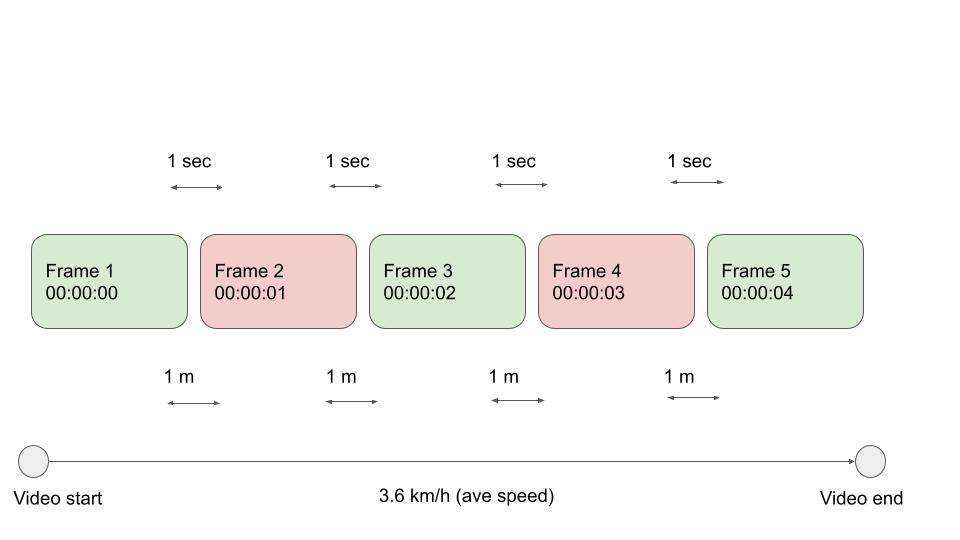
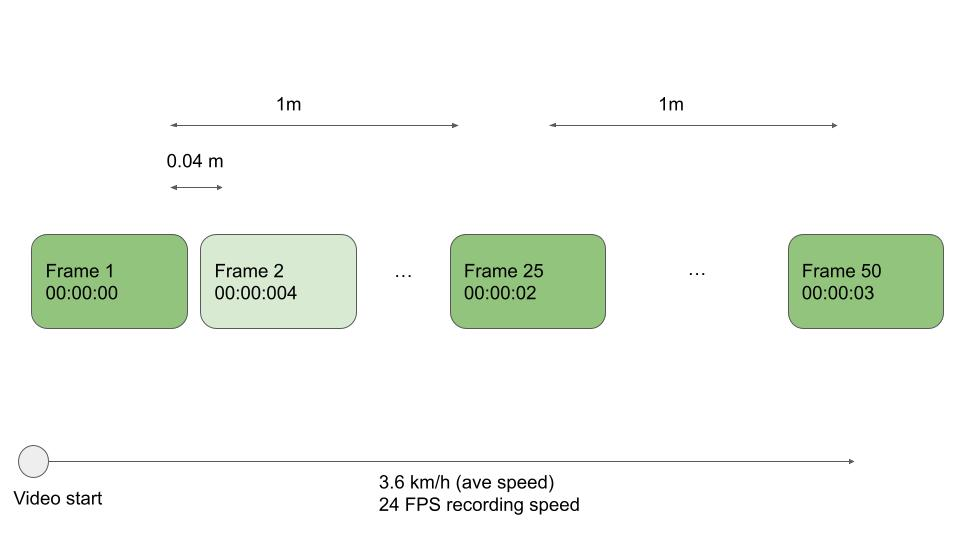
fixing conten

diff --git a/_posts/2022-02-11-choosing-right-frame-extraction-rate-ffmpeg.md b/_posts/2022-02-11-choosing-right-frame-extraction-rate-ffmpeg.md
@@ -1,7 +1,7 @@
 ---
 date: 2022-02-11
-title: "Setting the right frame rate for video extraction using speed as a variable"
-description: "How we optimised the process of turning a video into frames to create virtual tours in Explorer"
+title: "Setting the right frame rate for video extraction using ffmpeg"
+description: "How you optimised the process of turning a video into frames to create virtual tours in Explorer using speed as a variable."
 categories: developers
 tags: [FFMpeg, video, haversine]
 author_staff_member: dgreenwood
@@ -11,25 +11,25 @@ layout: post
 published: true
 ---
 
-**How we optimised the process of turning a video into frames for Explorer**
+**How you optimised the process of turning a video into frames to create virtual tours in Explorer using speed as a variable.**
 
 [Last week I talked about the importance of considering framerate for timewarp videos when extracting frames from it](/blog/2022/turn-360-timewarp-video-into-timelapse-images).
 
-With the Trek Pack v1 we shot in timelapse mode, [where the interval setting was determined by the transport used during shooting](/blog/2019/diy-google-street-view-part-3-preparing-to-shoot). This was a compromise as the Fusion's video mode was very battery intensive.
+With the Trek Pack v1 you shot in timelapse mode, [where the interval setting was determined by the speed of transport used during shooting](/blog/2019/diy-google-street-view-part-3-preparing-to-shoot). This was a compromise as the Fusion's video mode was very battery intensive.
 
-The MAX used on our v2 pack improved upon battery performance in video mode, we stated shooting in video mode only. The MAX also supports a frame rate of 0.5 FPS (1 photo every 2 seconds), which is also problematic.
+The MAX used on our v2 pack improved upon battery performance in video mode and you stated shooting in video mode only. The MAX also only supports a frame rate of 0.5 FPS (1 photo every 2 seconds), which is not paticularly fast for moderate-speed travel (e.g. biking).
 
-Videos can be recorded at a much higher frame rate. In video mode you can record up to 120 FPS @ 3k and 30 FPS @ 5.2k. Ultimately, this means there is more footage for us to work with (and discard as needed), not afforded when using timelapse mode.
+One of the biggest benefits of videos is that they can be recorded at a much higher frame rate. In video mode you can record up to 120 FPS @ 3k and 30 FPS @ 5.2k on the MAX. Ultimately, this means there is more footage for us to work with (and discard as needed), not afforded when using timelapse mode.
 
-Though extra frames come at a cost, and we had to apply some trade-offs when building Explorer.
+Though extra frames come at a cost, and you had to apply some trade-offs when building Explorer.
 
 ## Why not extract all frames of the video?
 
-In a perfect world, we would extract all video frames. For example, if a video was shot at 30 FPS, we would extract all 30 frames.
+In a perfect world, you would extract all video frames. For example, if a video was shot at 30 FPS, you would extract all 30 frames.
 
 For a video of 10 minutes, that is 18000 frames (`(30x60)x10`).
 
-Assuming each frame is about 10Mb (about right for a 360 photo), that is 180Gb of images. This number is inflated, but we lose the advantage of the [video codecs compression](/blog/2020/fps-bitrate-compression-360-virtual-tours).
+Assuming each frame is about 10Mb (about right for a 360 photo), that is 180Gb of images. This number is inflated, but you lose the advantage of the [compression provided by video codecs](/blog/2020/fps-bitrate-compression-360-virtual-tours).
 
 At scale, this quickly adds up to very big numbers in terms of storage space and processing power required.
 
@@ -39,11 +39,11 @@ For virtual tours, the main measure of extraction comes down to the distance you
 
 [As noted in this post on the Google support forum](https://support.google.com/maps/forum/AAAAQuUrST8X8OxIdF011I/?hl=en&gpf=d/topic/maps/X8OxIdF011I), Google Street View paths (photos connected with a blue line) should not be greater than 5 metres apart.
 
-For the optimum viewing experience of virtual tours, we have found photos about a metre apart work best. They are close enough that scenery does not get passed too quickly, nor are they to close together that navigation becomes tedious.
+For the optimum viewing experience of virtual tours, you have found photos about a metre apart work best. They are close enough that scenery does not get passed too quickly, nor are they to close together that navigation becomes tedious.
 
-Traveling at an average speed of 10 km/h (2.75 m/s) in 2 second timelapse mode will produce one photo about every 6 metres. Shot in video mode at 24 FPS results in one photo every 0.1 metres.
+To hightlight the difference between video mode and timelapse mode; rraveling at an average speed of 10 km/h (2.75 m/s) in 2 second timelapse mode will produce one photo about every 6 metres. Shot in video mode at 24 FPS results in one photo every 0.1 metres.
 
-Therefore, we first need to know the speed at which the tour was captured.
+In order to calculate the extraction rate to achieve a spacing of 1 meter you first need to know the speed at which the tour was captured.
 
 ## Choosing video extraction framerate for virtual tours
 
@@ -51,48 +51,48 @@ There are a few ways to obtain a speed value to determine the frame rate needed;
 
 1. estimate average speed using the transport method used (considers average speed only)
 2. find start and end time, and start and end position of the video and work out the average speed (considers average speed only)
-3. use video telemetry to work out speed changes over the journey and adjust frame rate dynamically (considers changes in speed)
+3. use video telemetry to work out speed changes over the video and adjust frame rate dynamically (considers changes in speed)
 
 ### Option 1: estimate average speed using the transport method used
 
-The table above gives some rough averages for various methods of transport typically used for human powered means of transport;
+The table above gives some rough averages for various methods of human powered;
 
 <table class="tableizer-table">
-<thead><tr class="tableizer-firstrow"><th>Sport</th><th>Ave speed km/h</th><th>Ave speed m/s (kmh/3.6)</th><th>Frame spacing @ 24 FPS (ave speed m/s / 24)</th><th>FPS (at frame every 0.5 metre)</th><th>FPS (at frame every 1 metre)</th><th>FPS (at frame every 5 metre)</th></tr></thead><tbody>
+<thead><tr class="tableizer-firstrow"><th>Sport</th><th>Ave speed km/h</th><th>Ave speed m/s (kmh/3.6)</th><th>Frame spacing @ 24 FPS (ave speed m/s / 24)</th><th>Min recording FPS needed (at frame every 0.5 meter)</th><th>Min recording FPS needed (at frame every 1 meter)</th><th>Min recording FPS needed (at frame every 5 meter)</th></tr></thead><tbody>
  <tr><td>Freefall</td><td>200</td><td>55.56</td><td>2.31</td><td>112</td><td>56</td><td>12</td></tr>
  <tr><td>Downhill sports (skiing, MTB, etc)</td><td>30</td><td>8.33</td><td>0.35</td><td>17</td><td>9</td><td>2</td></tr>
  <tr><td>Bi-cyling (flat), kayaking (downstream)</td><td>20</td><td>5.56</td><td>0.23</td><td>12</td><td>6</td><td>2</td></tr>
+ <tr><td>Hiking (uphill), walking</td><td>3.6</td><td>1.00</td><td>0.04</td><td>2</td><td>1</td><td>1</td></tr>
  <tr><td>Hiking (downhill)</td><td>1.6</td><td>0.44</td><td>0.02</td><td>1</td><td>1</td><td>1</td></tr>
- <tr><td>Hiking (uphill), walking</td><td>3</td><td>0.83</td><td>0.03</td><td>2</td><td>1</td><td>1</td></tr>
- <tr><td>1 metre per frame</td><td>86</td><td>23.89</td><td>1.00</td><td>48</td><td>24</td><td>5</td></tr>
+ <tr><td>1 meter per frame</td><td>86</td><td>23.89</td><td>1.00</td><td>48</td><td>24</td><td>5</td></tr>
 </tbody></table>
 
-_[See the calculations used in this table here](https://docs.google.com/spreadsheets/d/1jea_XIfow-4Oro3vKfKEeJL7bhlsYHjz/edit?usp=sharing&ouid=111552983205460555579&rtpof=true&sd=true)_
+_[Grab the formulas used in this table here](https://docs.google.com/spreadsheets/d/1jea_XIfow-4Oro3vKfKEeJL7bhlsYHjz/edit?usp=sharing&ouid=111552983205460555579&rtpof=true&sd=true)._
 
-Most methods of transport our trekkers use are slow enough where frames are spaced much closer than 1 metre. For example, traveling at 3.6 km/h (1 m/s), each frame is spaced 0.04 metres apart.
+Most methods of transport our trekkers use are slow enough where frames are spaced much closer than 1 metre. For example, traveling at 3.6 km/h (1 m/s) with a video frame rate of 24FPS, each frame is spaced 0.04 metres apart.
 
 <img class="img-fluid" src="/assets/images/blog/2022-02-11/frame-rate-speed.jpg" alt="Frame rate and speed" title="Frame rate and speed" />
 
-You only run into an issue where frames are spaced further apart than the recording frame rate. At this point you can only extract all frames from the video and will have to accept the spacing provided.
+You only run into an issue where frames are spaced further apart than the recording frame rate. At this point you can only extract all frames from the video and will have to accept the spacing provided (see: freefall example).
 
-That said, for our trekkers this is unlikely to occur. You would need to be traveling at over 86 km/h for frames go be more than 1 metre apart.
+That said, for our trekkers this is unlikely to occur. At 86 km/h you would need to be shooting at 48 FPS on the camera to ensure you could extract one frame per seconds. Thus, shooting at 24 FPS (offered on all GoPro cameras) you could be travelling at 43 km/h before spacing between each frame exceed 1 metre.
 
-Now, assuming the distance between frames calculated in the video is actually much less than 1 metre, the extraction rate used will be the average speed in metres per second rounded up to the next integer (e.g. 8.33 m/s = extraction rate of 9 FPS for spacing of 1 metre).
+Now, assuming the distance between frames in the video is actually much less than 1 metre (e.g. when walking), the extraction rate used will be the average speed in metres per second rounded up to the next integer (e.g. 8.33 m/s = extraction rate of 9 FPS for spacing of 1 metre).
 
 For a larger spacing (or shorter spacing), you can use the following calculation (also shown with formula here)
 
 ```
-ffmpeg -r value (fps) = ave speed m/s / frame spacing metres)
+ffmpeg -r value (fps) = ave speed (m/s) / frame spacing (metres)
 ```
 
 e.g. for spacing every 5 metres at average speed of 8.33 m/s
 
 ```
-ffmpeg -r value (fps) = 8.3 / 5)
-ffmpeg -r value (fps) = 2)
+ffmpeg -r value (fps) = 8.3 / 5
+ffmpeg -r value (fps) = 2
 ```
 
-You can already see the savings from the raw video. If origianl framerate is 24 FPS, 2 FPS is a 12x reduction in the amount of frames.
+You can already see the frame savings over the raw video. If original framerate is 24 FPS, 2 FPS is a 12x reduction in the amount of frames.
 
 Using ffmpeg you can now extract the frames like so;
 
@@ -113,15 +113,19 @@ $ ffmpeg -i VIDEO.mp4 -r 2 -q:v 2 FRAMES/img%d.jpg
 
 ### Option 2: find start and end time, and start and end position of the video and work out the average speed
 
-The GPS telemetry in the video provides us with the start time (first `GPSDateTime` value in the telemetry) and can calculate the end time (first `GPSDateTime` value + `Duration` value).
+The GPS telemetry in the video provides us with the start time (first `GPSDateTime` value in the telemetry). You can calculate the end time using this and the `Duration` metadata value (first `GPSDateTime` value + `Duration` value).
 
-It also provides the start position and end position of the video (first and last `GPSLatitude`, `GPSLatitude`, and `GPSAltitude` respectively).
+The telemetry also provides the start position and end position of the video (first and last `GPSLatitude`, `GPSLatitude`, and `GPSAltitude` respectively).
 
-To work out average speed we need to know the distance between the two points.
+To work out average speed you need to know the distance between the two points.
 
 To calculate distance, you can use the [Haversine formula](https://en.wikipedia.org/wiki/Haversine_formula) to find the distance between two points on a sphere (Earth) given their longitudes and latitudes.
 
-Therefore `speed (m/s) = distance between points (metres) / duration (secs)`.
+Once you've calculate the distance, to work out speed;
+
+```
+speed (m/s) = distance between points (metres) / duration (secs)
+```
 
 All that is left to do is adjust speed for frame rate.
 
@@ -131,7 +135,7 @@ We know the framerate (it is reported in the telemetry), e.g.
 <Track1:VideoFrameRate>29.971</Track1:VideoFrameRate> 
 ```
 
-For example, lets say distance was 100 metres from start and end of video, the video was 20 second long, and we want 1 frame every metre. Here is the resulting calculations;
+As an example, let's say distance was 100 metres from start to end of video, the video was 20 second long, and you want 1 frame every metre. Here is the resulting calculations;
 
 ```
 speed m/s = distance between points (metres) / duration (secs)
@@ -142,7 +146,7 @@ extraction rate fps = 5/1
 extraction rate fps = 5
 ```
 
-Using this value, we can use ffmpeg like before, adjusting the `-r` value;
+Using this value, you can use ffmpeg like before, adjusting the `-r` value;
 
 ```
 $ ffmpeg -i VIDEO.mp4 -r 5 -q:v 2 FRAMES/img%d.jpg
@@ -156,21 +160,23 @@ $ ffmpeg -i VIDEO.mp4 -r 5 -q:v 2 FRAMES/img%d.jpg
 
 * Like option 1, does not account for changes in speed well.
 
-## Option 3: use video telemetry to work out speed changes over the journey
+## Option 3: use video telemetry to work out speed changes over the video
 
-Here you first work out speed at each stage of the video using the telemetry track. You will likely get 16 values for speed each second using a GoPro Camera (16 Hz the max resolution of the GPS chip).
+Here you first work out speed at each stage of the video using the telemetry track.
+
+Note, you will get no more than 18 values for speed each second using a GoPro Camera ([18 Hz the max resolution of the GPS chip](/blog/2020/metadata-exif-xmp-360-video-files-gopro-gpmd)). This is less than the frame rate.
 
 Using the distance travelled and time between each second in the video allows you to calculate an average speed per second (e.g. `0-1 = 10m/s`, `1-2 = 12m/s`, `2-3....`).
 
 _Note: You could calculate ave speed to 0.1 second resolution, (the ffmpeg `-r` flag accepts to 0.1 seconds) but it is overkill for our purposes._
 
-Like previously we can calculate extraction rate fps (`speed (m/s) / desired spacing of frames (metres)`).
+Like done previously, you can calculate extraction rate FPS (`speed (m/s) / desired spacing of frames (metres)`).
 
-You now have FPS extraction values for each second of the video (vs whole video as we used in options 1 and 2). As a result, you need to modify the ffmpeg command.
+You now have FPS extraction values for each second of the video (vs whole video as you used in options 1 and 2). As a result, you now need to modify the ffmpeg command.
 
 Unfortunately, the ffmpeg `-r` flag does not account for extraction at variable frame rates in a single video. This is because 99.9% of videos have a fixed frame rate.
 
-In this case we can use the `-ss` (start) and `-to` [ffmpeg seeking function](https://trac.ffmpeg.org/wiki/Seeking) for each 1 second segment of video of the video (replacing the `-r` value with the calculated FPS value calculated earlier for each 1 second increment). e.g.
+In this case you can use the `-ss` (start) and `-to` [ffmpeg seeking function](https://trac.ffmpeg.org/wiki/Seeking) for each 1 second segment of video of the video (replacing the `-r` value with the calculated FPS value calculated earlier for each 1 second increment). e.g.
 
 ```
 $ ffmpeg -i VIDEO.mp4 -ss 00:00:00 -to 00:01:00 -r 10 -q:v 2 FRAMES/img%d.jpg
@@ -181,7 +187,7 @@ $ ffmpeg -i VIDEO.mp4 -ss 00:02:00 -to 00:03:00 -r 8 -q:v 2 FRAMES/img%d.jpg
 
 **Benefits:**
 
-* Most accurate method to get consistent spacing between photos as accounts for changes in speed during the recording
+* Most accurate method to get real spacing between frames as it accounts for changes in speed during the recording
 
 **Negatives:**
 
@@ -191,7 +197,7 @@ $ ffmpeg -i VIDEO.mp4 -ss 00:02:00 -to 00:03:00 -r 8 -q:v 2 FRAMES/img%d.jpg
 
 In option 2 and 3 I calculated speed manually using distance and time values.
 
-GoPro videos offer some help with calculating speed -- the speed of travel is actually reported in the metadata ([GPMF](/blog/2020/metadata-exif-xmp-360-video-files-gopro-gpmd)).
+GoPro videos offer some help with calculating speed -- the speed of travel is actually reported in the [GPMF metadata](/blog/2020/metadata-exif-xmp-360-video-files-gopro-gpmd).
 
 [Here is the metadata of a sample video shot on the MAX](https://github.com/trek-view/gopro-metadata/blob/main/max/max-360-vid-001s1/GS018421-5_6k-output.xml).
 
@@ -205,20 +211,20 @@ You will see two types of GPSSpeed values are regularly reported alongside posit
  <Track3:GPSSpeed3D>0.51</Track3:GPSSpeed3D>
 ```
 
-`GPSSpeed` is the horizontal speed (2 Dimensional -- latitude and longitude) aka ground speed (it is the same as the Haversine formula we used earlier).
+`GPSSpeed` is the horizontal speed (2 Dimensional -- latitude and longitude) aka ground speed (it is the same as the Haversine formula you used earlier).
 
 `GPSSpeed3D` accounts for horizontal and vertical changes (3 Dimensional -- latitude and longitude and altitude), it is aware of the mountains and valleys you might have traversed (from altitude values reported). 
 
 <img class="img-fluid" src="/assets/images/blog/2022-02-11/gps-speed-3d-2d-haversine.jpg" alt="GPS Speed 3D and GPS Speed 2D and Haversine" title="GPS Speed 3D and GPS Speed 2D" />
 
-Using the time reported in GoPro telemetry will not offer much accuracy over calculating manually (you are doing the same calculations), but it will save you the time and processing power to do those calculations (although you will have to write to code to correctly ready speed values). As such, I prefer to just do manual calculations, but wanted to share this method should you want too.
+Using the time reported in GoPro telemetry will not offer much accuracy over calculating manually (you are doing the same calculations), but it will save you the time and processing power to do those calculations (although you will have to write to code to correctly ready speed values). As such, I prefer to do the manual calculations in my code.
 
 ## One final consideration
 
-As technology develops having more data (photos frames) available is advantageous.
+As technology develops, having more data (photo frames) available is advantageous.
 
 For example, when mapping objects in real space using Photogrammetry.
 
 The resulting 3D models are more accurate when there are more data points (frames) at slightly different angles because the code has more knowledge to work with.
 
-Again the trade-off comes down to power and storage versus how much money you have to do it. At small scale, extracting higher frames is fine, but when you are processing 100's of videos a day, costs will quickly add up.
+Again the trade-off comes down to power and storage. At small scale, extracting higher frames is fine, but when you are processing 100's of videos a day, costs will quickly add up.
